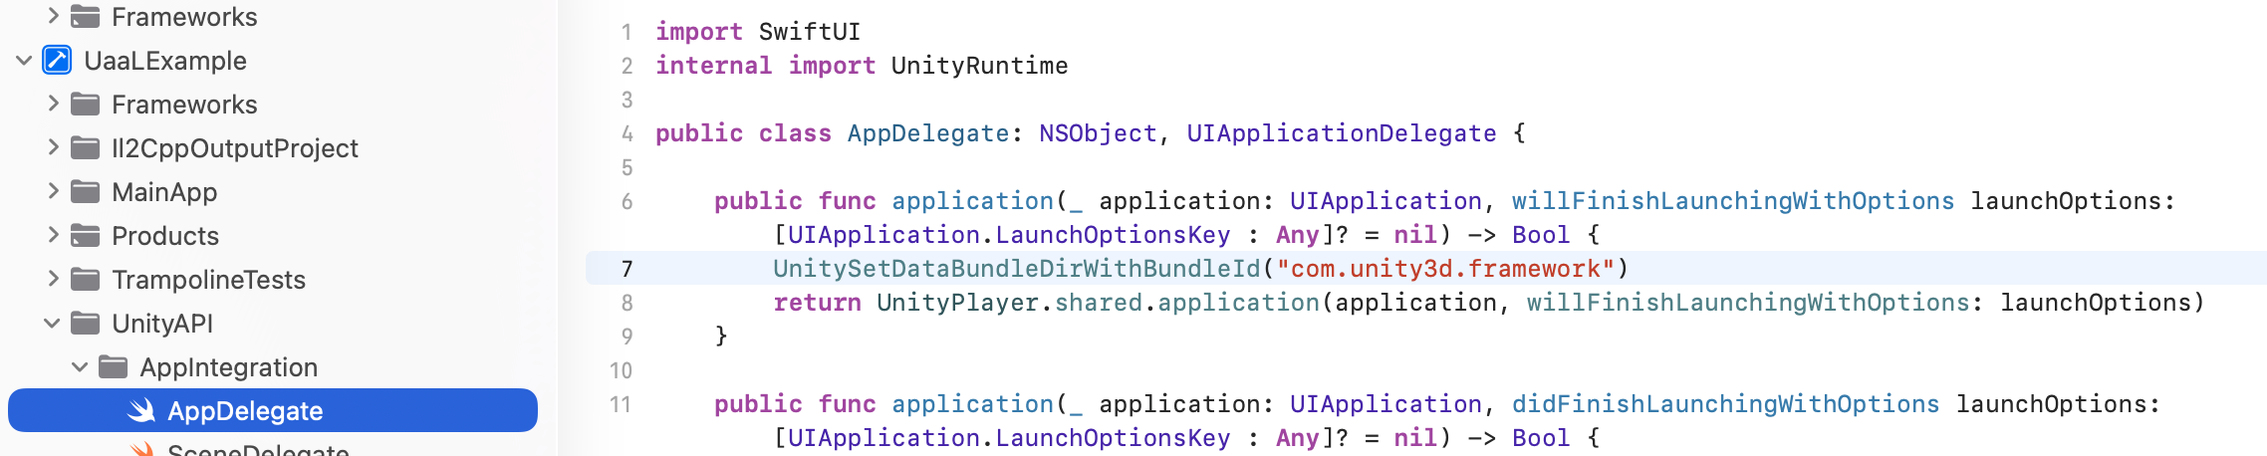
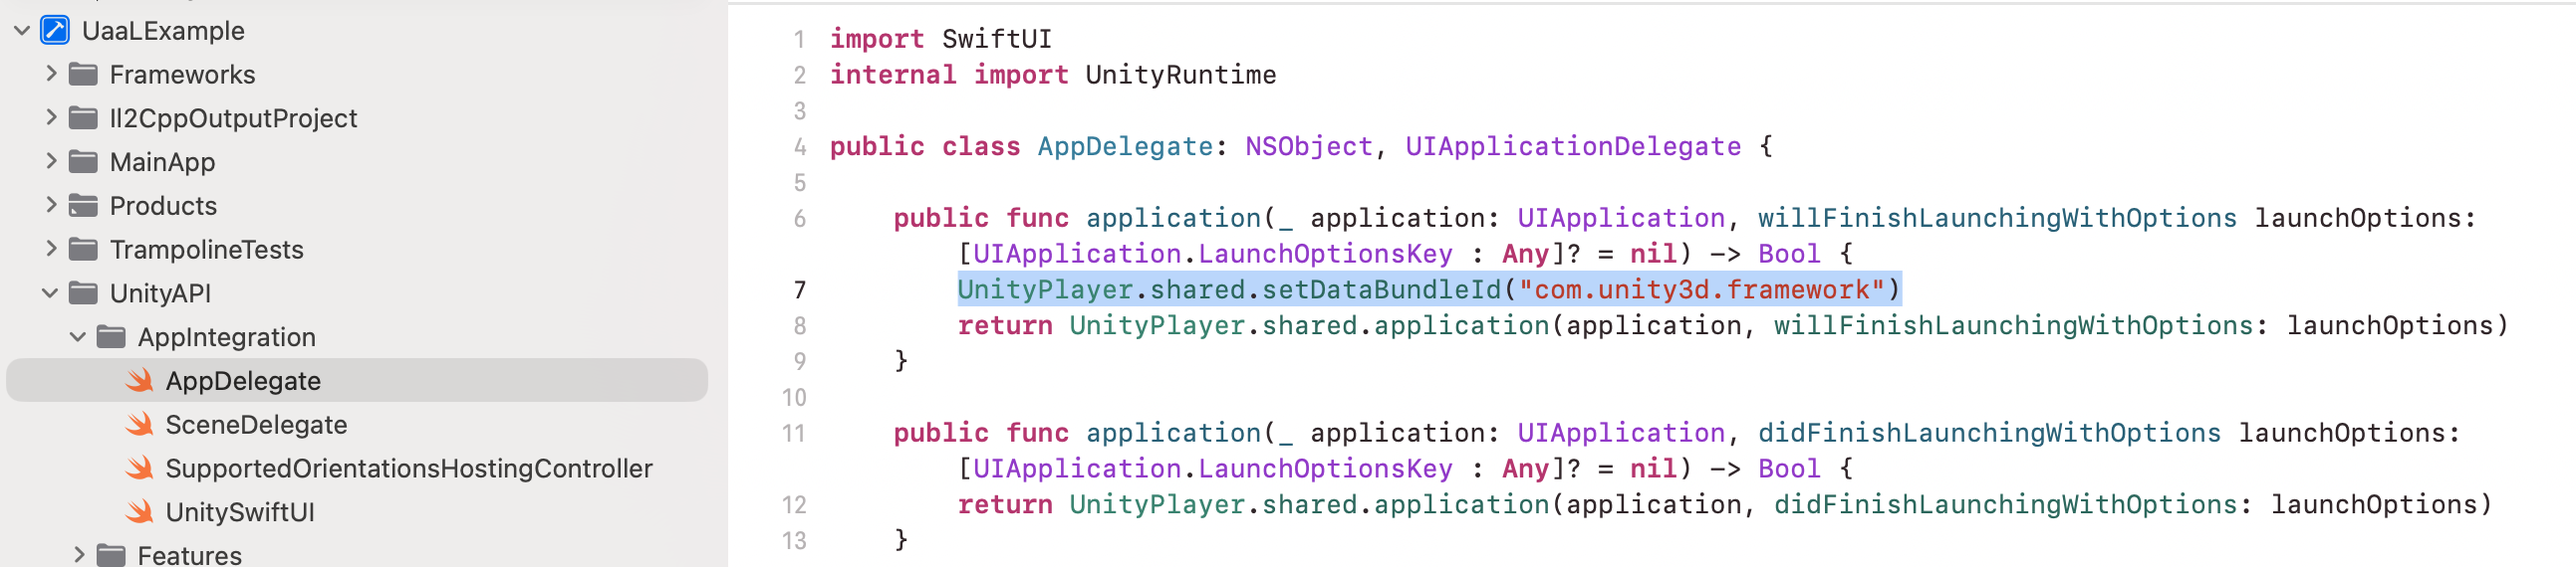
fixes per Robertas comments

diff --git a/NativeiOSSwiftApp/NativeiOSSwiftApp/NativeiOSSwiftAppApp.swift b/NativeiOSSwiftApp/NativeiOSSwiftApp/NativeiOSSwiftAppApp.swift
@@ -2,14 +2,18 @@ import SwiftUI
 import UIKit
 import UnityAPI
 import UnityFramework
-import Observation
+import Combine
+import os.signpost
 
-@Observable
-class Helper: NSObject, NativeCallsProtocol {
+private let poi = OSLog(subsystem: "com.unity.uaal", category: .pointsOfInterest)
+
+class Helper: NSObject, ObservableObject, NativeCallsProtocol {
     static let shared = Helper()
-    var lastCircleColor: Color? = nil
-    var isUnityRunning = false
-    var hasUnityQuit = false
+    
+    @Published var lastCircleColor: Color? = nil
+    @Published var isUnityRunning = false
+    @Published var hasUnityQuit = false
+    
     var unityWindow: UIWindow?
 
     private override init() {
@@ -33,8 +37,11 @@ class Helper: NSObject, NativeCallsProtocol {
 
     func startUnity() {
         guard !hasUnityQuit, !isUnityRunning else { return }
-        
-        UnitySetDataBundleDirWithBundleId("com.unity3d.framework")
+
+        let id = OSSignpostID(log: poi)
+        os_signpost(.begin, log: poi, name: "StartEngine", signpostID: id)
+
+        UnityPlayer.shared.setDataBundleId("com.unity3d.framework")
         UnityPlayer.shared.terminatesOnQuit = false
         UnityPlayer.shared.startEngine()
         isUnityRunning = true
@@ -56,6 +63,8 @@ class Helper: NSObject, NativeCallsProtocol {
         UnityPlayer.shared.sceneDidBecomeActive(windowScene)
 
         installUnityOverlayButtons()
+
+        os_signpost(.end, log: poi, name: "StartEngine", signpostID: id)
     }
 
     func showHostMainWindow(_ color: String!) {
@@ -85,25 +94,30 @@ class Helper: NSObject, NativeCallsProtocol {
         let spacing: CGFloat = 60
 
         rootView.addOverlayButton("Show Main", center: CGPoint(x: x, y: y), size: btnSize, color: .green) {
-            [weak self] in self?.showHostMainWindow("")
+            [weak self] in
+            os_signpost(.event, log: poi, name: "ShowMain")
+            self?.showHostMainWindow("")
         }
         y += spacing
         rootView.addOverlayButton("Send Msg", center: CGPoint(x: x, y: y), size: btnSize, color: .yellow) {
+            os_signpost(.event, log: poi, name: "SendMessage")
             UnityPlayer.shared.sendMessage(toGameObject: "Cube", method: "ChangeColor", argument: "yellow")
         }
         y += spacing
         rootView.addOverlayButton("Unload", center: CGPoint(x: x, y: y), size: btnSize, color: .red) {
+            os_signpost(.event, log: poi, name: "Unload")
             UnityPlayer.shared.unload()
         }
         y += spacing
         rootView.addOverlayButton("Quit", center: CGPoint(x: x, y: y), size: btnSize, color: .red) {
+            os_signpost(.event, log: poi, name: "Quit")
             UnityPlayer.shared.quit()
         }
     }
 }
 
 struct ContentView: View {
-    var helper = Helper.shared
+    @ObservedObject var helper = Helper.shared
     @State private var alertTitle = ""
     @State private var alertMessage = ""
     @State private var showingAlert = false

diff --git a/NativetvOSSwiftApp/NativetvOSSwiftApp/NativetvOSSwiftAppApp.swift b/NativetvOSSwiftApp/NativetvOSSwiftApp/NativetvOSSwiftAppApp.swift
@@ -2,14 +2,18 @@ import SwiftUI
 import UIKit
 import UnityAPI
 import UnityFramework
-import Observation
+import Combine
+import os.signpost
 
-@Observable
-class Helper: NSObject, NativeCallsProtocol {
+private let poi = OSLog(subsystem: "com.unity.uaal", category: .pointsOfInterest)
+
+class Helper: NSObject, NativeCallsProtocol, NativeCallsProtocol {
     static let shared = Helper()
-    var lastCircleColor: Color? = nil
-    var isUnityRunning = false
-    var hasUnityQuit = false
+    
+    @Published var lastCircleColor: Color? = nil
+    @Published var isUnityRunning = false
+    @Published var hasUnityQuit = false
+    
     var unityWindow: UIWindow?
 
     private override init() {
@@ -34,8 +38,11 @@ class Helper: NSObject, NativeCallsProtocol {
     func startUnity() {
         guard !hasUnityQuit, !isUnityRunning else { return }
 
+        let id = OSSignpostID(log: poi)
+        os_signpost(.begin, log: poi, name: "StartEngine", signpostID: id)
+
         UnityPlayer.shared.terminatesOnQuit = false
-        UnitySetDataBundleDirWithBundleId("com.unity3d.framework")
+        UnityPlayer.shared.setDataBundleId("com.unity3d.framework")
         UnityPlayer.shared.startEngine()
         isUnityRunning = true
 
@@ -57,6 +64,8 @@ class Helper: NSObject, NativeCallsProtocol {
         UnityPlayer.shared.sceneDidBecomeActive(windowScene)
 
         installUnityOverlayButtons()
+
+        os_signpost(.end, log: poi, name: "StartEngine", signpostID: id)
     }
 
     func showHostMainWindow(_ color: String!) {
@@ -86,25 +95,31 @@ class Helper: NSObject, NativeCallsProtocol {
         let spacing: CGFloat = 60
 
         rootView.addOverlayButton("Show Main", center: CGPoint(x: x, y: y), size: btnSize, color: .green) {
-            [weak self] in self?.showHostMainWindow("")
+            [weak self] in
+            os_signpost(.event, log: poi, name: "ShowMain")
+            self?.showHostMainWindow("")
         }
         y += spacing
         rootView.addOverlayButton("Send Msg", center: CGPoint(x: x, y: y), size: btnSize, color: .yellow) {
+            os_signpost(.event, log: poi, name: "SendMessage")
             UnityPlayer.shared.sendMessage(toGameObject: "Cube", method: "ChangeColor", argument: "yellow")
         }
         y += spacing
         rootView.addOverlayButton("Unload", center: CGPoint(x: x, y: y), size: btnSize, color: .red) {
+            os_signpost(.event, log: poi, name: "Unload")
             UnityPlayer.shared.unload()
         }
         y += spacing
         rootView.addOverlayButton("Quit", center: CGPoint(x: x, y: y), size: btnSize, color: .red) {
+            os_signpost(.event, log: poi, name: "Quit")
             UnityPlayer.shared.quit()
         }
     }
 }
 
 struct ContentView: View {
-    var helper = Helper.shared
+    @ObservedObject var helper = Helper.shared
+    
     @State private var alertTitle = ""
     @State private var alertMessage = ""
     @State private var showingAlert = false

diff --git a/UnityProject/Assets/Cube.cs b/UnityProject/Assets/Cube.cs
@@ -66,6 +66,16 @@ public class Cube : MonoBehaviour
 #endif
     }
 
+    void OnMouseEnter()
+    {
+        GetComponent<Renderer>().material.color = Color.white;
+    }
+
+    void OnMouseExit()
+    {
+        ChangeColor(lastStringColor);
+    }
+
     void OnGUI()
     {
         GUIStyle style = new GUIStyle("button");

diff --git a/README.md b/README.md
@@ -1,17 +1,19 @@
 # Unity as a Library integration example to iOS and Android #
 
-In some scenario developers using native platform technologies (like Android/Java & iOS/Objective C) want to include in their apps/games features powered by Unity for 3D/2D Real Time Rendering, AR experience, interaction with 3D models, 2D mini games and more.
+In some scenario developers using native platform technologies (like Android/Java & iOS/tvOS Objective-C/Swift) want to include in their apps/games features powered by Unity for 3D/2D Real Time Rendering, AR experience, interaction with 3D models, 2D mini games and more.
 
 Starting with Unity 2019.3.0a2, Unity  introduced a new feature to use Unity as a library in native apps by integrating the Unity runtime components and content in a native platform project. The Unity Runtime Library exposes controls to manage when and how to load/activate/unload within the native application.
 
 **Warning**
 
-Using Unity as a Library **requires you have experience with developing for native platform technologies** such as Java/Android, Objective C/iOS, or Windows Win32/UWP. You need to be familiar with the structure of the project, language features and specific platform configuration options (like user permissions for example).
+Using Unity as a Library **requires you have experience with developing for native platform technologies** such as Java/Android, Objective-C / Swift iOS/tvOS, or Windows Win32/UWP. You need to be familiar with the structure of the project, language features and specific platform configuration options (like user permissions for example).
 
 **Requirements**
 
 * **Android:** Unity 6000.0.0b16 or higher
-* **iOS:** Unity 2021.3.28f1 or higher
+* **iOS/tvOS:** 
+Objective-C project type: Unity 2021.3.28f1 or higher
+Swift project type: Unity 6000.7+ or higher
 
 **Limitations**
 
@@ -28,5 +30,9 @@ The build process overall is still the same, Unity creates the iOS Xcode and And
  A library part (iOS framework and Android Archive (AAR) file) that includes all source & plugins 
  A thin launcher part that includes app representation data and runs library
 
-Step by step explanations on how to include the [iOS](docs/ios.md) / [Android](docs/android.md) library part into your native application when needed.
+Step by step explanations on how to include the:
+- [iOS Objective-C](docs/ios.md) 
+- [iOS Swift](docs/iosSwift.md) 
+- [Android](docs/android.md) 
+UaaL into your native application when needed.
 

diff --git a/docs/iosSwift.md b/docs/iosSwift.md
@@ -1,5 +1,6 @@
 ## Integrating Unity as a library (Swift Project Type) into standard Swift based iOS / tvOS application
-This document explains how to include Unity as a Library (Swift Project Type) into standard iOS / tvOS Swift based application. You can read more about [Unity as a Library](https://docs.unity3d.com/2019.3/Documentation/Manual/UnityasaLibrary.html).
+This document explains how to include Unity as a Library (Swift Project Type) into standard iOS / tvOS Swift based application. For Objective-C integration check [iOS Objective-C](docs/ios.md)
+You can read more about [Unity as a Library](https://docs.unity3d.com/6000.7/Documentation/Manual/UnityasaLibrary.html).
 
 **Requirements:**
 - Minimum iOS / tvOS Version 16.0+
@@ -68,7 +69,7 @@ UnityPlayer.shared.sendMessage(toGameObject: "Cube", method: "ChangeColor", argu
  - (optional) If you want UaaLExample scheme to continue to work after change above you need to override `AppDelegate.application(_:didFinishLaunchingWithOptions:)` to set the framework bundle id before Unity initializes, in uaal-example/UnityProject/iosBuild/UnityAPI/AppIntegration/AppDelegate.swift:
    ```swift
     override func application(_ application: UIApplication, didFinishLaunchingWithOptions launchOptions: [UIApplication.LaunchOptionsKey : Any]? = nil) -> Bool {
-        UnitySetDataBundleDirWithBundleId("com.unity3d.framework")
+        UnityPlayer.shared.setDataBundleId("com.unity3d.framework")
         return UnityPlayer.shared.application(application, didFinishLaunchingWithOptions: launchOptions)
     }
    ```
@@ -105,7 +106,7 @@ UnityPlayer.shared.quit()
 UnityPlayer.shared.terminatesOnQuit = false
 
 // Point Unity data to the framework bundle (UaaL only, call before startEngine)
-UnitySetDataBundleDirWithBundleId("com.unity3d.framework")
+UnityPlayer.shared.setDataBundleId("com.unity3d.framework")
 ```
 
 **Rendering view:**

diff --git a/docs/ios.md b/docs/ios.md
@@ -1,5 +1,6 @@
 ## Integrating Unity as a library (Objective-C Project Type) into standard iOS app
-This document explains how to include Unity as a Library into standard iOS application. You can read more about [Unity as a Library](https://docs.unity3d.com/2019.3/Documentation/Manual/UnityasaLibrary.html).
+This document explains how to include Unity as a Library (Objective-C Project Type) into standard iOS / tvOS Objective-C application. For Swift integration check [iOS Swift](docs/iosSwift.md)
+You can read more about [Unity as a Library](https://docs.unity3d.com/6000.7/Documentation/Manual/UnityasaLibrary.html).
 
 **Requirements:**
 - Xcode 9.4+
